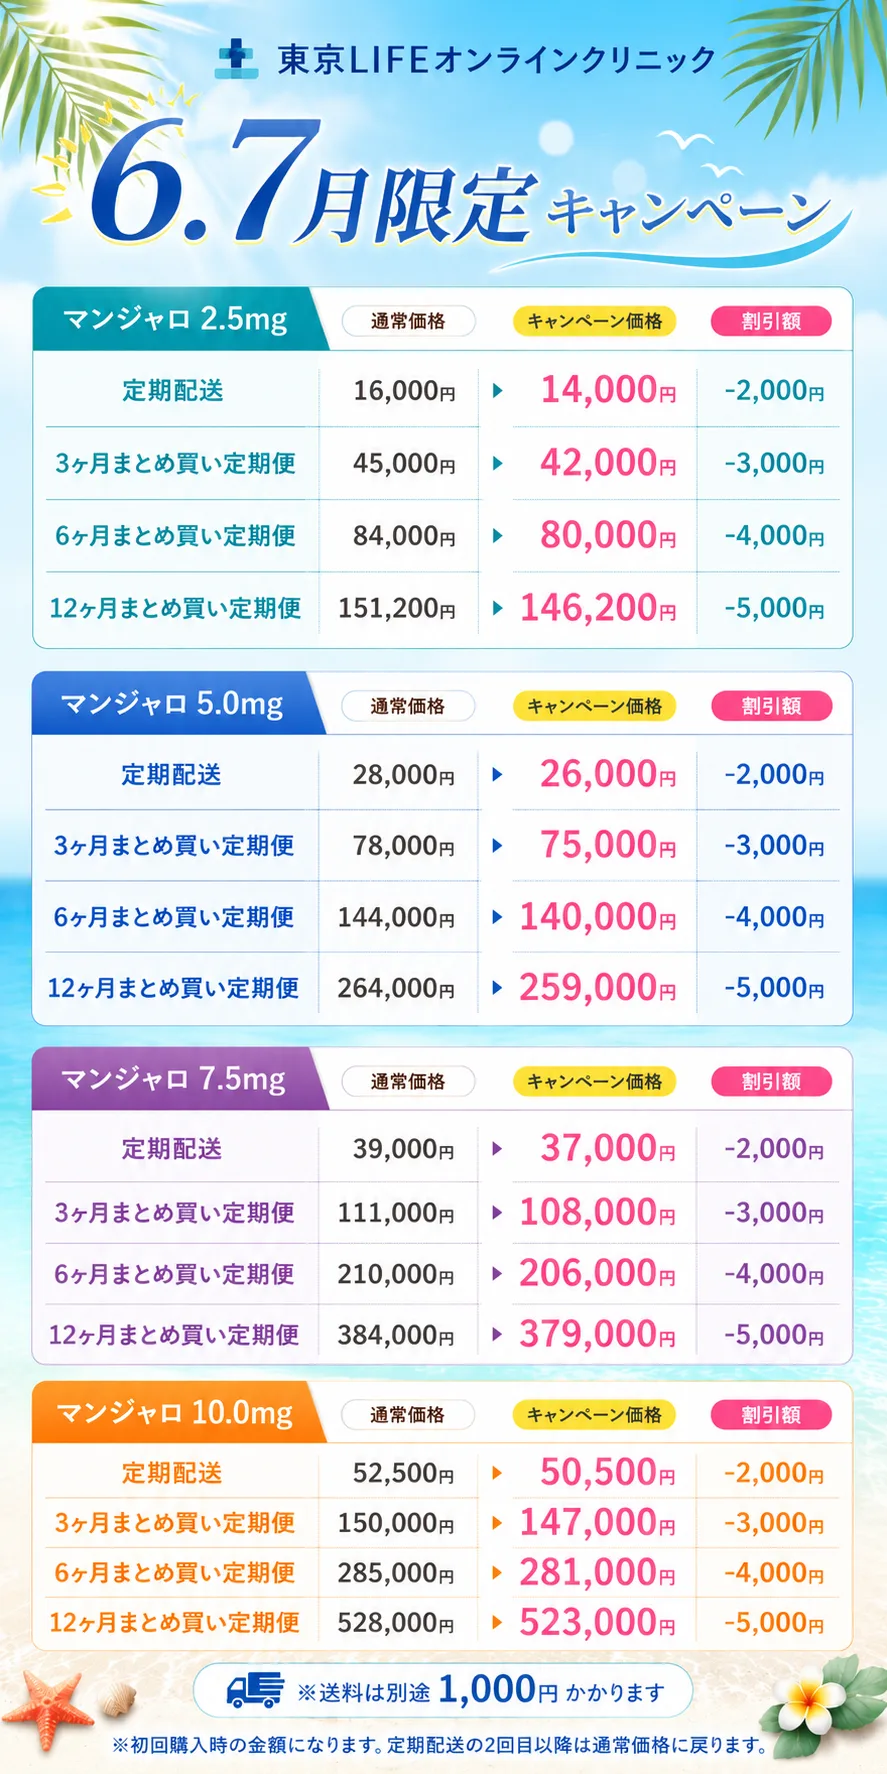
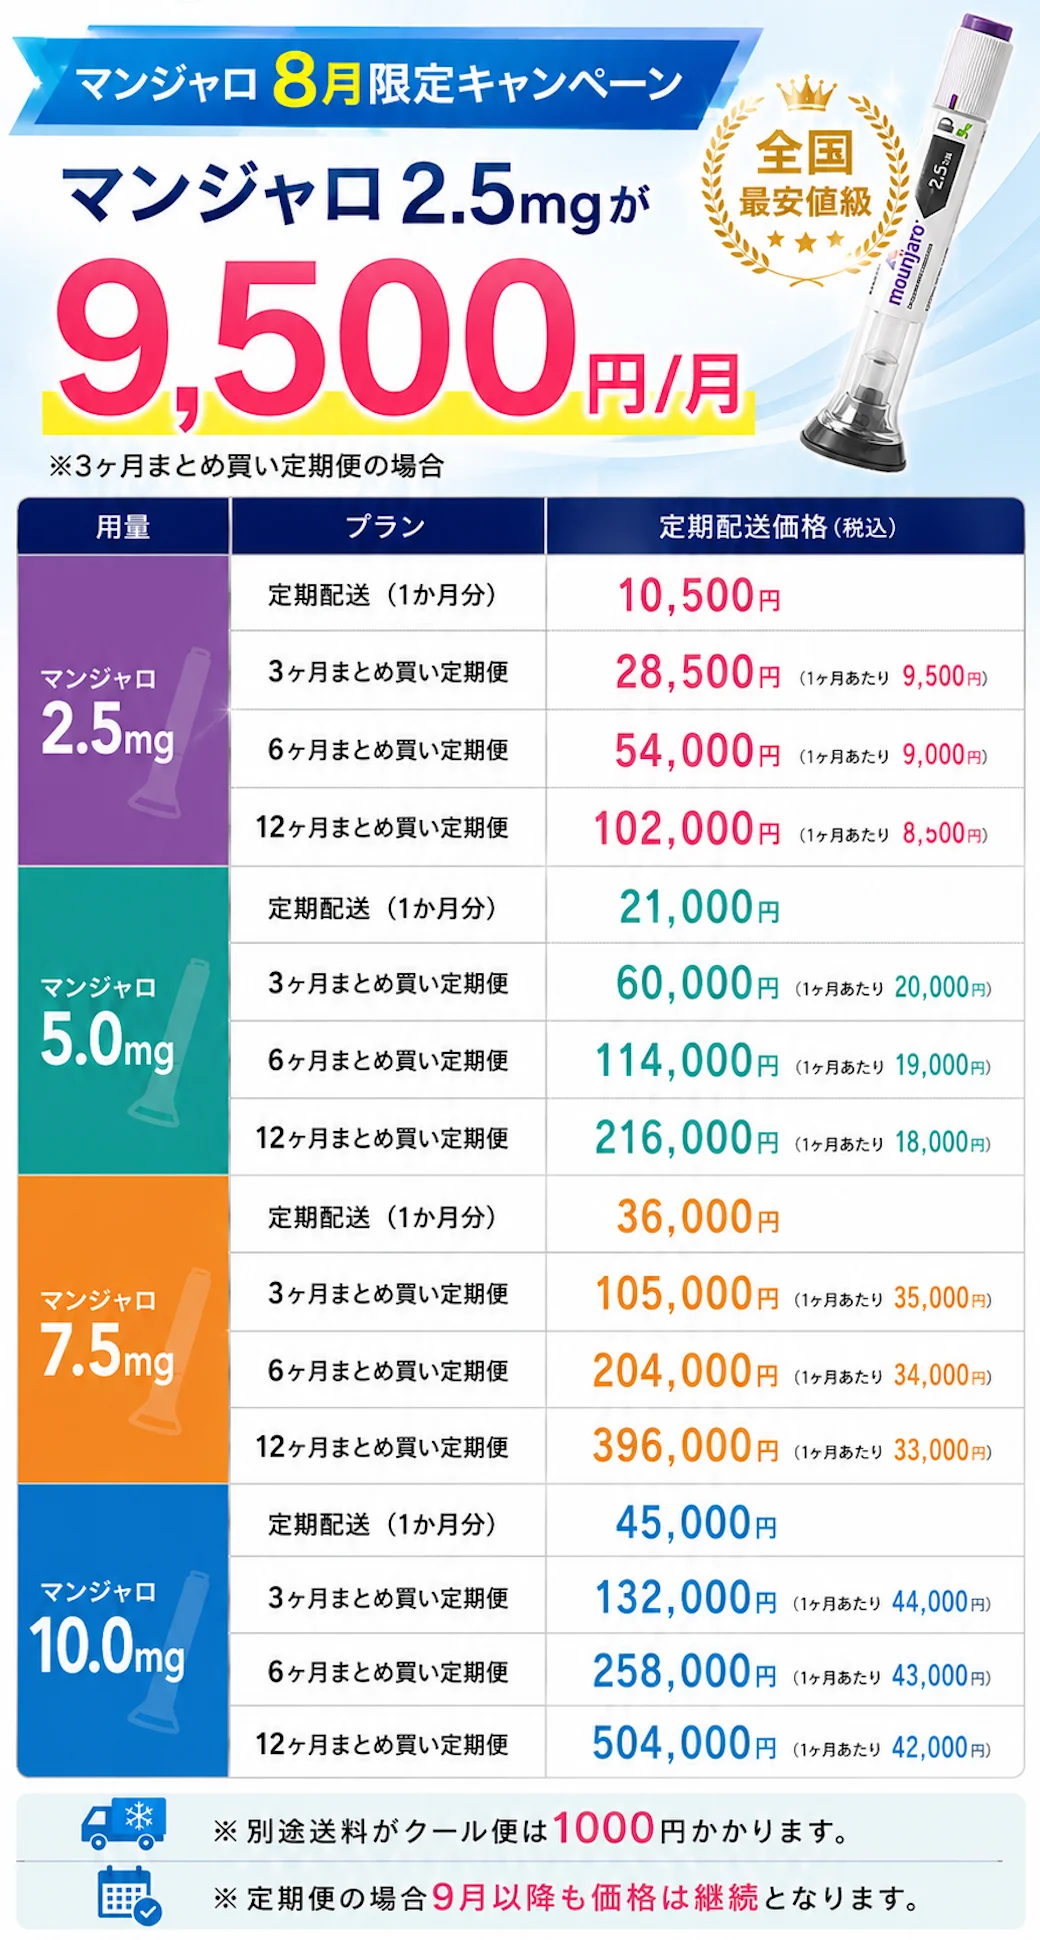
feat(lp): update /lp/001_01 visuals to 8月キャンペーン
- campaign.webp: 6・7月版 → 8月版（マンジャロ2.5mg 9,500円/月）、alt も更新
- 01.webp / 07.webp: キャンペーン限定価格 2,125円/本 表記へ差し替え
- 08.webp: 料金表を更新（お試しマンジャロ追加、「1ヶ月分」行を削除）
- style.css: 新しい07.webp は下部余白が狭く CTA が注釈テキストに重なるため、
  #section-07 の CTA を bottom: 14px へ調整（他セクション・002_01 は影響なし）

diff --git a/public/lp/001_01/index.html b/public/lp/001_01/index.html
@@ -117,7 +117,7 @@
         <!-- キャンペーンバナー（ファーストビューの下） -->
         <section class="image-section" id="section-campaign">
             <div class="image-wrapper image-wrapper--sp-only">
-                <img src="/lp/001_01/assets/img/sp/campaign.webp" alt="マンジャロキャンペーン 6・7月">
+                <img src="/lp/001_01/assets/img/sp/campaign.webp" alt="マンジャロキャンペーン 8月">
             </div>
         </section>
 
@@ -170,7 +170,7 @@
         <!-- 画像セクション08 -->
         <section class="image-section" id="section-08">
             <div class="image-wrapper image-wrapper--sp-only">
-                <img src="/lp/001_01/assets/img/sp/campaign.webp" alt="マンジャロキャンペーン 6・7月">
+                <img src="/lp/001_01/assets/img/sp/campaign.webp" alt="マンジャロキャンペーン 8月">
                 <img src="/lp/001_01/assets/img/sp/08.webp" alt="料金表">
                 <img src="/lp/001_01/assets/img/sp/08-2.webp" alt="送料">
             </div>

diff --git a/public/lp/001_01/assets/css/style.css b/public/lp/001_01/assets/css/style.css
@@ -111,6 +111,11 @@ body {
     opacity: 0.7;
 }
 
+/* セクション07：背景画像の下部余白が狭いため、注釈テキストに重ならない位置へ */
+#section-07 .cta-btn {
+    bottom: 14px;
+}
+
 .cta-btn__img {
     display: block;
     width: 100%;
